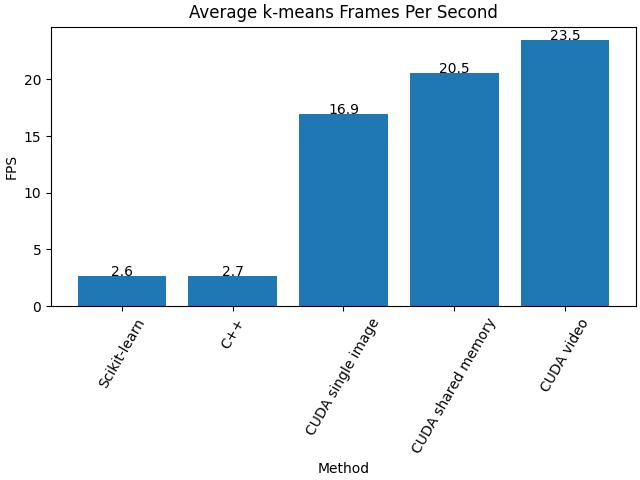
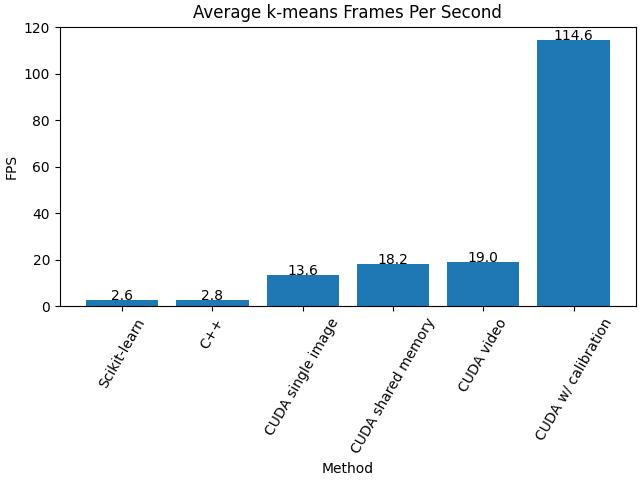
Added metrics for calibrated kmeans

diff --git a/lib/metrics.py b/lib/metrics.py
@@ -214,6 +214,10 @@ def execution_time_avg (img : np.ndarray, k : int, stab_error : int, tries : int
     -------
     Tuple with means and standard deviations
     '''
+    # Set max error and best prototypes
+    best_error = float("inf")
+    best_prototypes = np.random.randint(0, 256, size = (k, 3))
+
     times = _execution_time_step(k_means_scikit, img, k, stab_error, tries)
     py_time_avg = np.mean(times)
     py_time_std = np.std(times)
@@ -235,7 +239,7 @@ def execution_time_avg (img : np.ndarray, k : int, stab_error : int, tries : int
 
     times = []
     dev = k_means_cuda_init(img, k)
-
+    
     for i in range(tries) :
         dusk = time.time()
         k_means_cuda_exec(img, k, stab_error, dev=dev, use_shared_mem = True)
@@ -247,11 +251,41 @@ def execution_time_avg (img : np.ndarray, k : int, stab_error : int, tries : int
     cuda_video_time_avg = np.mean(times)
     cuda_video_time_std = np.std(times)
 
+    # Get prototypes for next algorithm
+    dev = k_means_cuda_init(img, k)
+
+    for i in range(tries) :
+        res, prototypes = k_means_cuda_exec(img, k, stab_error, dev=dev, use_shared_mem = True)
+
+        # Perform sum of squares metric
+        error = np.sum((img - res) ** 2)
+
+        if error < best_error :
+            best_error = error
+            best_prototypes = np.copy(prototypes)
+    
+    k_means_cuda_deinit(dev)
+
+    times = []
+    dev = k_means_cuda_init(img, k)
+
+    for i in range(tries) :
+        dusk = time.time()
+        k_means_cuda_exec(img, k, stab_error, dev=dev, use_shared_mem = True, prototypes = best_prototypes)
+        dawn = time.time()
+        times.append(dawn - dusk)
+
+    k_means_cuda_deinit(dev)
+
+    cuda_cali_time_avg = np.mean(times)
+    cuda_cali_time_std = np.std(times)
+
     return py_time_avg, py_time_std, \
         cpp_time_avg, cpp_time_std, \
         cuda_time_avg, cuda_time_std, \
         cuda_shared_time_avg, cuda_shared_time_std, \
-        cuda_video_time_avg, cuda_video_time_std
+        cuda_video_time_avg, cuda_video_time_std, \
+        cuda_cali_time_avg, cuda_cali_time_std
 
 
 def plot_execution_times (img : np.ndarray, k : int, stab_error : int, tries : int = 10) :
@@ -269,10 +303,11 @@ def plot_execution_times (img : np.ndarray, k : int, stab_error : int, tries : i
     tries : int
         Number of repetitions on which the average is calculated
     '''
-    py_time_avg, _, cpp_time_avg, _, cuda_time_avg, _, cuda_shared_time_avg, _, cuda_video_time_avg, _ = execution_time_avg (img, k, stab_error, tries)
+    py_time_avg, _, cpp_time_avg, _, cuda_time_avg, _, cuda_shared_time_avg, _, \
+        cuda_video_time_avg, _, cuda_cali_time_avg, _ = execution_time_avg (img, k, stab_error, tries)
 
-    labels = ['Scikit-learn', 'C++', 'CUDA single image', 'CUDA shared memory', 'CUDA video']
-    times = [py_time_avg, cpp_time_avg, cuda_time_avg, cuda_shared_time_avg, cuda_video_time_avg]
+    labels = ['Scikit-learn', 'C++', 'CUDA single image', 'CUDA shared memory', 'CUDA video', 'CUDA w/ calibration']
+    times = [py_time_avg, cpp_time_avg, cuda_time_avg, cuda_shared_time_avg, cuda_video_time_avg, cuda_cali_time_avg]
     times_strings = ["{:.4f}".format(t) for t in times]
 
     plt.figure()

diff --git a/lib/main.py b/lib/main.py
@@ -61,7 +61,8 @@ def test_video_calibration (source_path : str, dest_path : str, k : int, stab_er
 
 
 def custom_tests () :
-    test_video_calibration('../data/walking.mp4', '../data/video_res_cali.mp4', 3, 0.5)
+    # test_video_calibration('../data/walking.mp4', '../data/video_res_cali.mp4', 3, 0.5)
+    test_exec_times()
 
 
 if __name__ == '__main__':
@@ -126,7 +127,7 @@ if __name__ == '__main__':
             test_image(alg, args.source, args.dest, k, error)
 
         case 'video' :
-            test_video(args.source, args.dest, k, error)
+            test_video_calibration(args.source, args.dest, k, error)
         case _ :
             raise NotImplementedError('Operation not implemented - use \'image\' or \'video\'')
     
